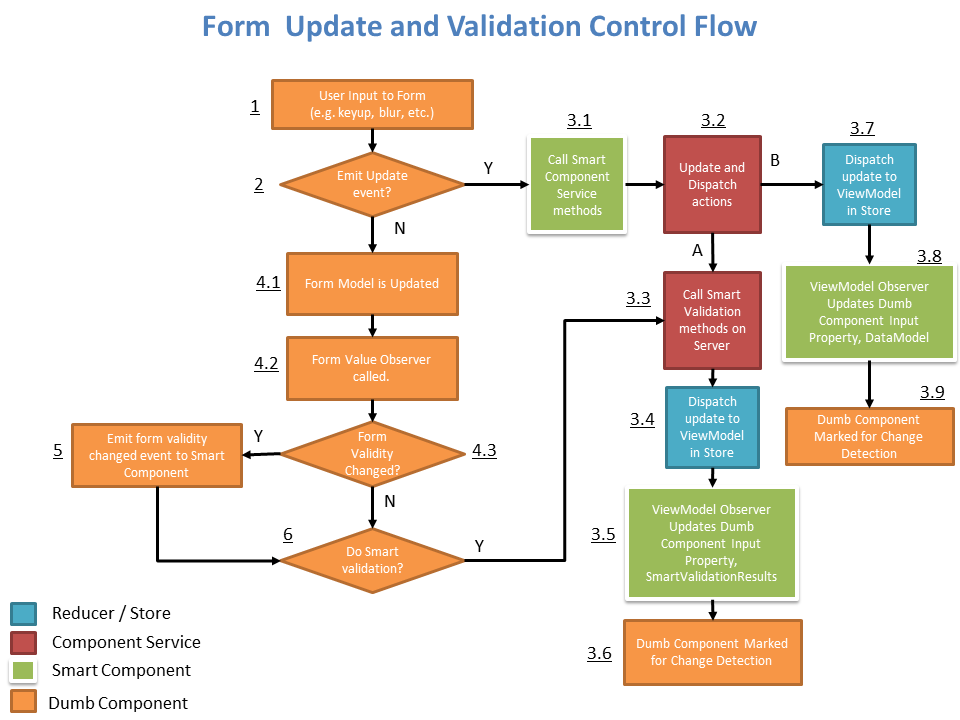
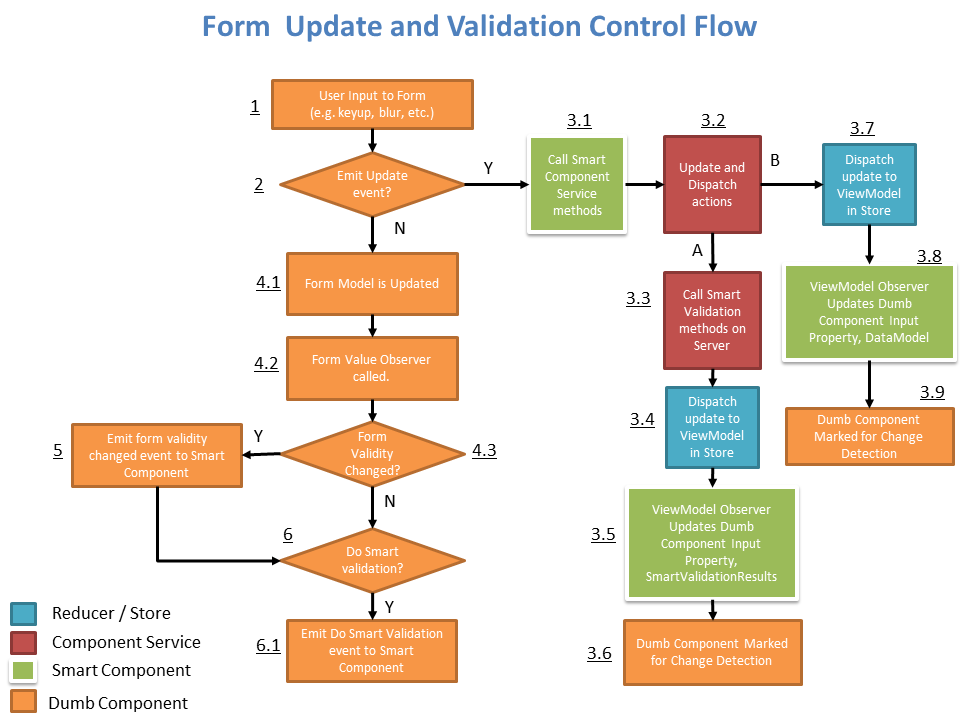
update

Changed region(s): [[0.25, 0.825, 0.5, 0.9472], [0.5, 0.4583, 0.5938, 0.7944], [0.5938, 0.4278, 0.6875, 0.4583]]

diff --git a/programming/web/angular2/ng-lessons-learned.md b/programming/web/angular2/ng-lessons-learned.md
@@ -208,9 +208,10 @@ Angular2 Lessons Learned
     - Basic control flow for validation and form data are provided through base classes
     - Global State contains smart-component specific View Models and other shared data
     - Minimum coupling over layers
+    - Remember that none of this addresses error messages.  Only validation.
 - Architecture 
 ![layers](/resources/images/programming/Angular2ArchDrawings/Slide1.PNG)
-    - Form
+    - Form Layer
         - **Reactive Forms**: Based on Reactive (aka Model-Driven) Forms paradigm instead of template-based
             - Discussion of the relative merits of each approach is out-of-scope, but it is discussed [widely](http://blog.angular-university.io/introduction-to-angular-2-forms-template-driven-vs-model-driven/)
             - You still use an Angular-HTML template, but much of the functionality (and some of the structure, if it is dynamic) is wired up in code rather than via use of directives such as `ngModel`
@@ -310,6 +311,13 @@ Angular2 Lessons Learned
                 2. The base dumb form component emits the DoSmartValidation event to the smart component whenever:
                     - The dumb component has existing smart validation errors AND
                     - Any user input occurs 
+    - Back End Validation and API Design
+        - For each type of API transaction there should be an associated collection of validation methods
+        - There should be a single high-level method that will call all of the appropriate validation methods for a given transaction type
+            - The high level validation method can be called by:
+                - The client: it walks through all the validation steps so the client only has to make one call 
+                - The Back End API: when the client tries to make a change (e.g. write to the DB), the API will call that same high level validation method first (inline).
+        - Each individual validation method should have a return value that gives the smart component sufficient information to distribute the error message to the appropriate dumb component.
 - Control Flow
     - There are two interconnected logical flows of data in this architecture:
     1. Form Update Flow
@@ -318,21 +326,7 @@ Angular2 Lessons Learned
 ![Form-update-flow](/resources/images/programming/Angular2ArchDrawings/Slide3.PNG)
 - Validation Flow
 ![validation-flow](/resources/images/programming/Angular2ArchDrawings/Slide4.PNG)
-- Complete Form Update and Validation Flow
-![Form-update-and-validation-flow](/resources/images/programming/Angular2ArchDrawings/Slide5.PNG)
-
-
-- TODO: Trace execution of 4th drawing
-
-    - 2 ways form's value observable fires:
-        - Component Input Property change:
-            - dataModel
-                - Triggered by a dc output event (e.g. blur)
-            - Smart validation Results
-                - Triggered by a base-dc output event
-        - Direct user input
-            - Any events on the form components (includes blur)
-    - The form change subscriber cannot directly change any values bc 
+    - The form observer cannot directly change any values bc 
         - the dumb component is OnPush - only re-renders when input properties are changed.
             - changed values would not trigger change detection or a re-render (unless manually- which is bad)
         - it can only output events (see below), which might eventually trigger an update of the input properties. 
@@ -343,23 +337,32 @@ Angular2 Lessons Learned
                 - Form Value change: Dumb validators might have invalidated the form, in which case the smart component would need to be notified.
         - onDoSmartValidation
             - triggered only by direct user input and if there was an existing smart validation fail (continuous validation)
-
-
-
-
-
+- Complete Form Update and Validation Flow
+![Form-update-and-validation-flow](/resources/images/programming/Angular2ArchDrawings/Slide5.PNG)
+- (1) User Enters Input
+- (2) If the dumb component has specified this type of input/event as one which generates a CRUD event, then emit and go to (3.1), else go to (4.1)
+- (3.1) The smart component handles the CRUD event and calls it's a corresponding method in it's designated service class
+- (3.2) The service has two streams of activity: smart validation and executing the CRUD action.  Start with (3.3)
+- (3.3) The service calls the smart validation methods
+- (3.4) Smart validation results are copied into the Smart Component's View Model in the Store
+- (3.5) The Smart Component is observing the View model in the Store.  When new smart validation results are found, it will inject this into the Dumb component's input property.
+- (3.6) The Dumb Component is updated and marked for Change Detection.  Go to (3.7)
+- (3.7) The View Model in the Store is updated per the CRUD event
+- (3.8) The Smart Component's View Model Observer fires and it injects the new input property into the dumb component
+- (3.9) The Dumb Component is updated and marked for Change Detection. Go to (4.1)
+- (4.1) The Form Model is updated with the user input
+- (4.2) The form observer is fired.
+- (4.3) Test whether the form's validity status has changed.  If so, go to (5), else to (6)
+- (5) Emit a form validity change event to the smart component
+- (6) Test whether Smart Validation should be triggered. If so, go to (6.1)
+- (6.1) Emit the Do Smart Validation event.
+- **CHANGE DETECTION RUNS ASYNC**
+    - When a given turn is done, if the component has been marked for Change Detection, then it will run.
+    - Only then will the component be re-rendered with the updated input property values sent to it via the Smart Component (via Observing the Store)
 
 ### Questions
 - TODO: Make sure smart Validation doesn't get triggered if local validation fails exist, otherwise there will be duplications.
 - Will I need something more granular than a single *do-smart-validation* output event in the dumb component?
-- Remember to include error messages as separate- are these handled by the smart or dumb component? e.g. some DB transaction fail
-- Consider for the future a way of mapping smart validation results back to the individual fields in the dumb component
-- Possibly incorporate these notes:
-    
-    - Back End Validation and API Design
-        - For each type of API transaction there should be an associated collection of validation methods
-        - There should be a single high-level method that will call all of the appropriate validation methods for a given transaction type
-            - The high level validation method can be called by:
-                - The client: it walks through all the validation steps so the client only has to make one call 
-                - The API: when the client tries to make a change (e.g. write to the DB), the API will call that same high level validation method first.
-        - Each individual validation method should have a return value that gives the smart component sufficient information to distribute the error message to the appropriate dumb component.
+- Consider streamlining how we handle smart and dumb validation
+- Consider for the future a way of mapping smart validation results back to the individual fields in the dumb component.
+- Another drawing which clearly designates what is handled by the Base Dumb Form Component vs the actual dumb component.
